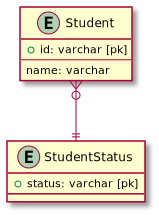
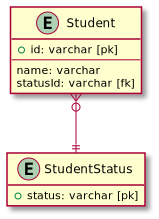
外部キーが無かったので追加

diff --git a/03_データベース/13_データベース設計のアンチパターンを学ぶ6/アンチパターンを学ぶ6.md b/03_データベース/13_データベース設計のアンチパターンを学ぶ6/アンチパターンを学ぶ6.md
@@ -22,6 +22,7 @@ Entity Student {
   + id: varchar [pk]
   --
   name: varchar
+  statusId: varchar [fk]
 }
 
 Entity StudentStatus {
@@ -29,6 +30,8 @@ Entity StudentStatus {
 }
 
 Student }o--|| StudentStatus
+
+hide empty members
 ```
 </details>
 
